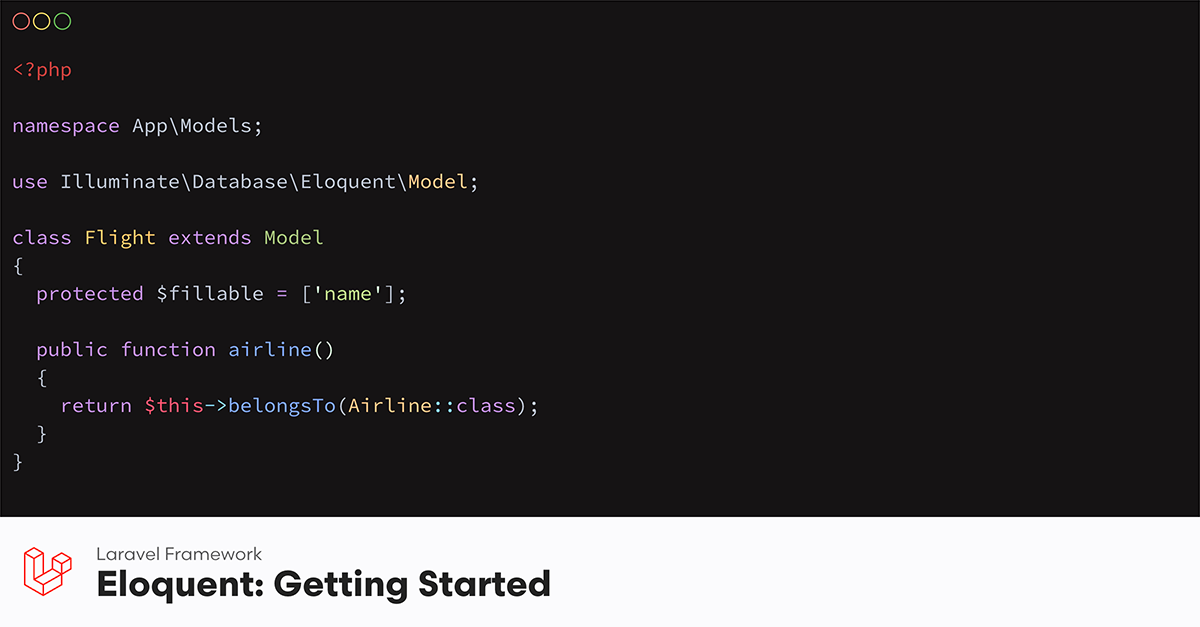
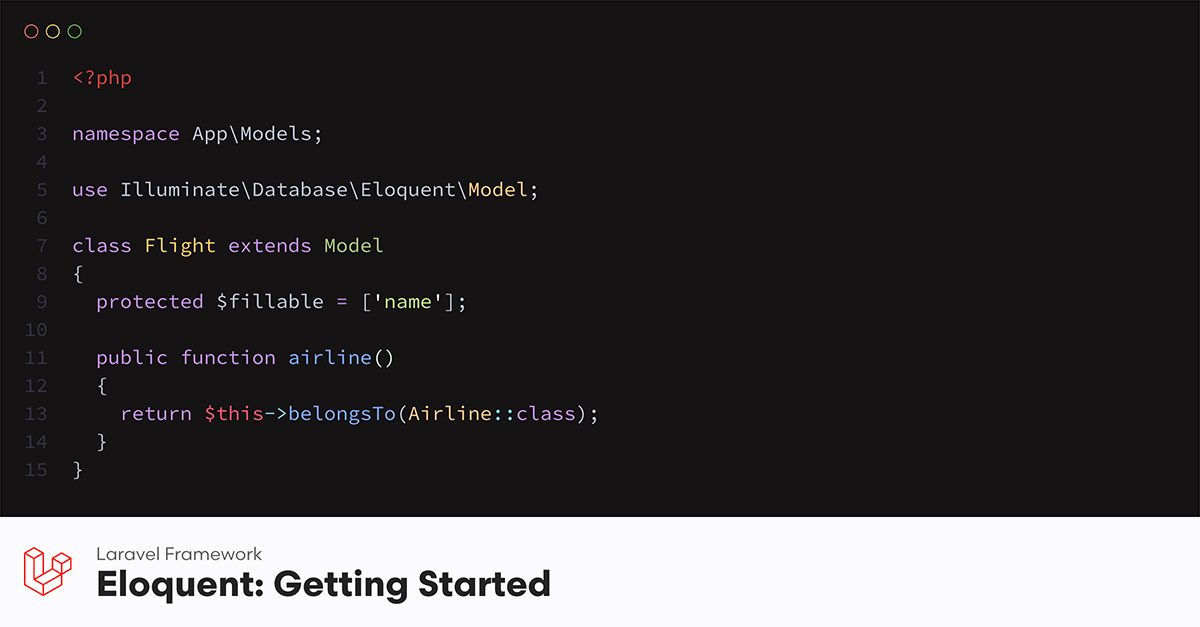
Tweak open graph rendering

diff --git a/resources/views/og-image.blade.php b/resources/views/og-image.blade.php
@@ -13,14 +13,14 @@
 <body class="language-php h-full w-full font-sans text-gray-900 antialiased">
 
 <div class="w-[1200px] h-[627px] bg-[#151314] mx-auto my-24 flex flex-col">
-	<div class="p-3 pb-6">
-		<svg class="h-5" viewBox="0 0 200 50" xmlns="http://www.w3.org/2000/svg">
+	<div class="p-6">
+		<svg class="h-4" viewBox="0 0 200 50" xmlns="http://www.w3.org/2000/svg">
 			<circle cx="23" cy="23" r="20" fill="transparent" stroke="#ff776e" stroke-width="3" />
-			<circle cx="74" cy="23" r="20" fill="transparent" stroke="#ffdf67" stroke-width="3" />
-			<circle cx="126" cy="23" r="20" fill="transparent" stroke="#6bc45a" stroke-width="3" />
+			<circle cx="90" cy="23" r="20" fill="transparent" stroke="#ffdf67" stroke-width="3" />
+			<circle cx="158" cy="23" r="20" fill="transparent" stroke="#6bc45a" stroke-width="3" />
 		</svg>
 	</div>
-	<div class="flex-1 font-mono text-xl overflow-hidden px-3">
+	<div class="flex-1 font-mono text-xl overflow-hidden px-6">
 		<x-torchlight-code language="php" :contents="$page->openGraph('src', '')" />
 	</div>
 	<div class="bg-gray-50 p-6">

diff --git a/app/Http/Controllers/OpenGraphImageController.php b/app/Http/Controllers/OpenGraphImageController.php
@@ -14,6 +14,9 @@ class OpenGraphImageController extends Controller
 			return 'No such page';
         }
 		
+		config()->set('torchlight.options.lineNumbers', true);
+		config()->set('torchlight.options.lineNumbersStyle', 'margin-right: 24px; opacity: 50%;');
+		
         return view('og-image', [
             'page' => $page,
 	        'version' => DEFAULT_VERSION,
